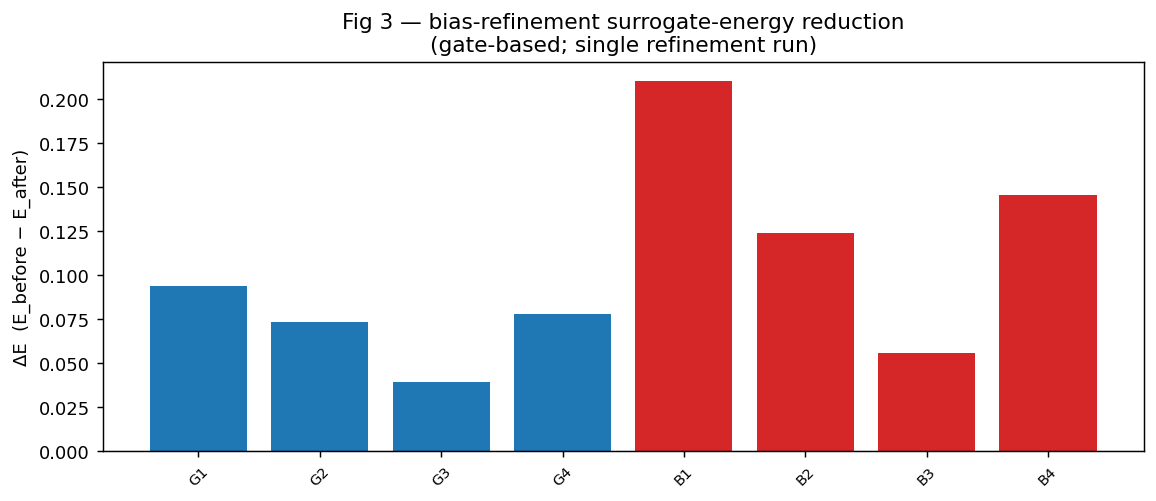
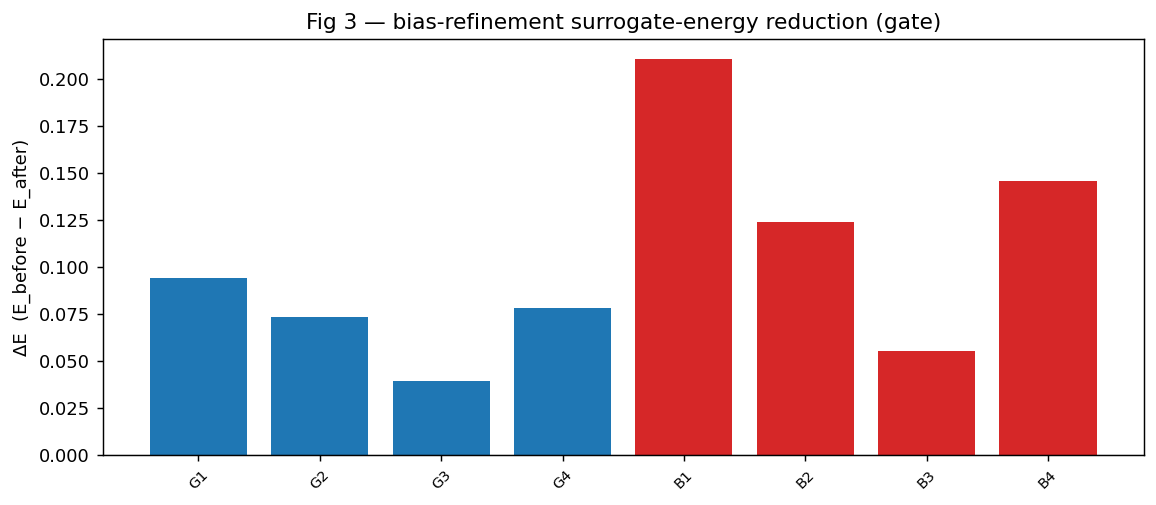
Better phptpnic results

diff --git a/papers/EGAS/utils/plot_results.py b/papers/EGAS/utils/plot_results.py
@@ -4,9 +4,9 @@ Usage:
     python utils/plot_results.py --wasserstein outdir/run_*/metrics.json
     python utils/plot_results.py --fig1 outdir/run_*/metrics.json
     python utils/plot_results.py --egas outdir/run_WC/metrics.json outdir/run_WQ/metrics.json
-    python utils/plot_results.py --fig4-gate paths... --fig4-photonic paths...
 
-Reads structured metrics.json and writes PNGs to both the run dir and ``results/``.
+Reads structured metrics.json (never hardcodes run dirs) and writes PNGs to both the run dir
+and ``results/``.
 """
 
 from __future__ import annotations
@@ -20,8 +20,6 @@ import matplotlib
 matplotlib.use("Agg")
 import matplotlib.pyplot as plt
 import numpy as np
-
-# ======================================================================= Constants
 
 RESULTS = Path(__file__).resolve().parents[1] / "results"
 RESULTS.mkdir(exist_ok=True)
@@ -37,57 +35,44 @@ PAPER_W1 = {
 }
 
 
-# ======================================================================= Helpers
-
-
 def _load(p):
-    """Load metrics.json file."""
     return json.loads(Path(p).read_text())
 
 
-# ======================================================================= Diagnostic Plots
-
-
 def plot_wasserstein(path):
-    """Plot Wasserstein distances (Table I) - diagnostic."""
     m = _load(path)["results"]
     names = [n for n in m if "w1" in m[n]]
     repro = [m[n]["w1"] for n in names]
     paper = [PAPER_W1.get(n, np.nan) for n in names]
     x = np.arange(len(names))
-    fig, ax = plt.subplots(figsize=(8, 4))
-    ax.bar(x - 0.2, repro, 0.4, label="reproduced")
-    ax.bar(x + 0.2, paper, 0.4, label="paper (Table I)")
-    ax.set_xticks(x)
-    ax.set_xticklabels(names)
-    ax.set_ylabel("1-Wasserstein distance")
-    ax.set_title("Table I — input-space class-conditional W1")
-    ax.legend()
+    plt.figure(figsize=(8, 4))
+    plt.bar(x - 0.2, repro, 0.4, label="reproduced")
+    plt.bar(x + 0.2, paper, 0.4, label="paper (Table I)")
+    plt.xticks(x, names)
+    plt.ylabel("1-Wasserstein distance")
+    plt.legend()
+    plt.title("Table I: input-space class-conditional W1")
     plt.tight_layout()
-    for d in (RESULTS,):
+    for d in (Path(path).parent, RESULTS):
         plt.savefig(d / "table1_wasserstein.png", dpi=130, bbox_inches="tight")
     plt.close()
     print("wrote table1_wasserstein.png")
 
 
 def plot_fig1(path):
-    """Plot trace distance vs W1 (Fig 1) - diagnostic."""
     res = _load(path)["results"]
-    fig, ax = plt.subplots(figsize=(6, 4))
+    plt.figure(figsize=(6, 4))
     for key, d in res.items():
-        ax.plot(d["w1"], d["trace_dist"], "o-", label=f"ZZ {key}")
-    ax.set_xlabel("input W1 distance")
-    ax.set_ylabel("trace distance")
-    ax.set_title("Fig 1 — trace distance vs input W1 (saturating)")
-    ax.legend()
+        plt.plot(d["w1"], d["trace_dist"], "o-", label=f"ZZ {key}")
+    plt.xlabel("input W1 distance")
+    plt.ylabel("trace distance")
+    plt.title("Fig 1: trace distance vs input W1 (saturating)")
+    plt.legend()
     plt.tight_layout()
-    for d in (RESULTS,):
+    for d in (Path(path).parent, RESULTS):
         plt.savefig(d / "fig1_tracedist_vs_w1.png", dpi=130, bbox_inches="tight")
     plt.close()
     print("wrote fig1_tracedist_vs_w1.png")
-
-
-# ======================================================================= Fig 3: Bias-Refinement Energy Reduction
 
 
 def plot_fig3_deltaE_per_candidate(path):
@@ -100,63 +85,45 @@ def plot_fig3_deltaE_per_candidate(path):
     b = m["delta_E"]["B"]
     labels = [f"G{i + 1}" for i in range(len(g))] + [f"B{i + 1}" for i in range(len(b))]
     means = g + b
-
     fig, ax = plt.subplots(figsize=(9, 4))
-    ax.bar(
-        range(len(means)),
-        means,
-        color=["#1f77b4"] * len(g) + ["#d62728"] * len(b),
-    )
+    ax.bar(range(len(means)), means, color=["#1f77b4"] * len(g) + ["#d62728"] * len(b))
     ax.axhline(0, color="k", lw=0.6)
     ax.set_xticks(range(len(labels)))
     ax.set_xticklabels(labels, rotation=45, fontsize=8)
     ax.set_ylabel("ΔE  (E_before − E_after)")
-    ax.set_title(
-        "Fig 3 — bias-refinement surrogate-energy reduction\n(gate-based; single refinement run)"
-    )
+    ax.set_title("Fig 3 — bias-refinement surrogate-energy reduction (gate)")
     plt.tight_layout()
-    plt.savefig(RESULTS / "fig3_deltaE_per_candidate.png", dpi=130, bbox_inches="tight")
+    for d in (RESULTS,):
+        plt.savefig(d / "fig3_deltaE_per_candidate.png", dpi=130, bbox_inches="tight")
     plt.close()
     print("wrote fig3_deltaE_per_candidate.png")
 
 
 def plot_fig3_deltaE_per_candidate_photonic(path):
-    """Fig 3 (Photonic): Bias-refinement surrogate-energy reduction per candidate.
-
-    Shows ΔE per candidate for G and B groups (PW dataset only).
-    """
+    """Fig 3 (Photonic): Bias-refinement surrogate-energy reduction per candidate."""
     m = _load(path)
     g = m["delta_E"]["G"]
     b = m["delta_E"]["B"]
     labels = [f"G{i + 1}" for i in range(len(g))] + [f"B{i + 1}" for i in range(len(b))]
     means = g + b
-
     fig, ax = plt.subplots(figsize=(9, 4))
-    ax.bar(
-        range(len(means)),
-        means,
-        color=["#1f77b4"] * len(g) + ["#d62728"] * len(b),
-    )
+    ax.bar(range(len(means)), means, color=["orange"] * len(g) + ["red"] * len(b))
     ax.axhline(0, color="k", lw=0.6)
     ax.set_xticks(range(len(labels)))
     ax.set_xticklabels(labels, rotation=45, fontsize=8)
     ax.set_ylabel("ΔE  (E_before − E_after)")
-    ax.set_title(
-        "Fig 3 (Photonic) — bias-refinement surrogate-energy reduction\n(photonic; single refinement run)"
-    )
+    ax.set_title("Fig 3 — bias-refinement surrogate-energy reduction (photonic)")
     plt.tight_layout()
-    plt.savefig(
-        RESULTS / "fig3_deltaE_per_candidate_photonic.png", dpi=130, bbox_inches="tight"
-    )
+    for d in (RESULTS,):
+        plt.savefig(
+            d / "fig3_deltaE_per_candidate_photonic.png", dpi=130, bbox_inches="tight"
+        )
     plt.close()
     print("wrote fig3_deltaE_per_candidate_photonic.png")
 
 
-# ======================================================================= Fig 4: Group-wise Energy Reduction
-
-
 def plot_fig4_deltaE_groups(paths):
-    """Fig 4 (Gate): Group-wise mean surrogate-energy reduction across datasets.
+    """Fig 4: Group-wise mean surrogate-energy reduction across datasets.
 
     Plots mean ΔE for G and B groups with error bars.
     """
@@ -183,16 +150,14 @@ def plot_fig4_deltaE_groups(paths):
     ax.set_title("Fig 4 — group-wise mean surrogate-energy reduction across datasets")
     ax.legend()
     plt.tight_layout()
-    plt.savefig(RESULTS / "fig4_deltaE_groups.png", dpi=130, bbox_inches="tight")
+    for d in (RESULTS,):
+        plt.savefig(d / "fig4_deltaE_groups.png", dpi=130, bbox_inches="tight")
     plt.close()
     print("wrote fig4_deltaE_groups.png")
 
 
 def plot_fig4_deltaE_groups_photonic(paths):
-    """Fig 4 (Photonic): Group-wise mean surrogate-energy reduction across datasets.
-
-    Plots mean ΔE for G and B groups with error bars.
-    """
+    """Fig 4 (photonic): Group-wise mean surrogate-energy reduction across datasets."""
     data = [_load(p) for p in paths]
     names = [d["dataset"] for d in data]
 
@@ -204,11 +169,9 @@ def plot_fig4_deltaE_groups_photonic(paths):
     x = np.arange(len(names))
     fig, ax = plt.subplots(figsize=(7, 4))
     ax.errorbar(
-        x - 0.05, gm, yerr=gs, fmt="o", capsize=4, label="G group", color="#1f77b4"
+        x - 0.05, gm, yerr=gs, fmt="o", capsize=4, label="G group", color="orange"
     )
-    ax.errorbar(
-        x + 0.05, bm, yerr=bs, fmt="s", capsize=4, label="B group", color="#d62728"
-    )
+    ax.errorbar(x + 0.05, bm, yerr=bs, fmt="s", capsize=4, label="B group", color="red")
     ax.axhline(0, ls="--", color="gray", lw=0.8)
     ax.set_xticks(x)
     ax.set_xticklabels(names)
@@ -218,31 +181,22 @@ def plot_fig4_deltaE_groups_photonic(paths):
     )
     ax.legend()
     plt.tight_layout()
-    plt.savefig(
-        RESULTS / "fig4_deltaE_groups_photonic.png", dpi=130, bbox_inches="tight"
-    )
+    for d in (RESULTS,):
+        plt.savefig(d / "fig4_deltaE_groups_photonic.png", dpi=130, bbox_inches="tight")
     plt.close()
     print("wrote fig4_deltaE_groups_photonic.png")
 
 
-# ======================================================================= Fig 5: Win/Tie/Loss Comparison
-
-
 def plot_fig5_win_tie_loss(paths):
-    """Fig 5 (Gate): Win/Tie/Loss vs classical linear SVM per dataset.
-
-    Compares quantum kernels against classical baseline across splits.
-    """
+    """Fig 5: Win/Tie/Loss comparison vs classical linear across datasets."""
     data = [_load(p) for p in paths]
     names = [d["dataset"] for d in data]
     n = len(names)
-
     fig, axes = plt.subplots(1, n, figsize=(4 * n, 3.6), sharey=True)
     if n == 1:
         axes = [axes]
 
-    for ax, name in zip(axes, names):
-        m = data[names.index(name)]
+    for ax, name, m in zip(axes, names, data):
         models = [
             ("G*", m["G"][m["G_star_idx"]]["wtl_vs_linear"]),
             ("G*(Bias)", m["G_bias"][m["G_bias_star_idx"]]["wtl_vs_linear"]),
@@ -269,30 +223,26 @@ def plot_fig5_win_tie_loss(paths):
         ax.set_xticklabels(labels, rotation=45, fontsize=8)
         ax.set_title(f"{name} (W1={m['w1']:.2f})")
 
-    axes[0].set_ylabel("# splits (of {})".format(data[0]["n_splits"]))
+    axes[0].set_ylabel(f"# splits (of {data[0]['n_splits']})")
     axes[-1].legend(loc="upper right", fontsize=8)
     fig.suptitle("Fig 5 — Win/Tie/Loss vs classical linear SVM")
     plt.tight_layout()
-    plt.savefig(RESULTS / "fig5_win_tie_loss.png", dpi=130, bbox_inches="tight")
+    for d in (RESULTS,):
+        plt.savefig(d / "fig5_win_tie_loss.png", dpi=130, bbox_inches="tight")
     plt.close()
     print("wrote fig5_win_tie_loss.png")
 
 
 def plot_fig5_win_tie_loss_photonic(paths):
-    """Fig 5 (Photonic): Win/Tie/Loss vs classical linear SVM per dataset.
-
-    Compares photonic quantum kernels against classical baseline across splits.
-    """
+    """Fig 5 (photonic): Win/Tie/Loss comparison vs classical linear across datasets."""
     data = [_load(p) for p in paths]
     names = [d["dataset"] for d in data]
     n = len(names)
-
     fig, axes = plt.subplots(1, n, figsize=(4 * n, 3.6), sharey=True)
     if n == 1:
         axes = [axes]
 
-    for ax, name in zip(axes, names):
-        m = data[names.index(name)]
+    for ax, name, m in zip(axes, names, data):
         models = [
             ("G*", m["G"][m["G_star_idx"]]["wtl_vs_linear"]),
             ("G*(Bias)", m["G_bias"][m["G_bias_star_idx"]]["wtl_vs_linear"]),
@@ -306,42 +256,35 @@ def plot_fig5_win_tie_loss_photonic(paths):
         ties = [w["tie"] for _, w in models]
         loss = [w["lose"] for _, w in models]
         x = np.arange(len(labels))
-        ax.bar(x, wins, color="#2c7fb8", label="win")
-        ax.bar(x, ties, bottom=wins, color="#f4d03f", label="tie")
+        ax.bar(x, wins, color="orange", label="win", alpha=0.8)
+        ax.bar(x, ties, bottom=wins, color="gold", label="tie", alpha=0.8)
         ax.bar(
             x,
             loss,
             bottom=np.array(wins) + np.array(ties),
-            color="#d62728",
+            color="red",
             label="lose",
+            alpha=0.8,
         )
         ax.set_xticks(x)
         ax.set_xticklabels(labels, rotation=45, fontsize=8)
         ax.set_title(f"{name} (W1={m['w1']:.2f})")
 
-    axes[0].set_ylabel("# splits (of {})".format(data[0]["n_splits"]))
+    axes[0].set_ylabel(f"# splits (of {data[0]['n_splits']})")
     axes[-1].legend(loc="upper right", fontsize=8)
     fig.suptitle("Fig 5 (Photonic) — Win/Tie/Loss vs classical linear SVM")
     plt.tight_layout()
-    plt.savefig(
-        RESULTS / "fig5_win_tie_loss_photonic.png", dpi=130, bbox_inches="tight"
-    )
+    for d in (RESULTS,):
+        plt.savefig(d / "fig5_win_tie_loss_photonic.png", dpi=130, bbox_inches="tight")
     plt.close()
     print("wrote fig5_win_tie_loss_photonic.png")
 
 
-# ======================================================================= Fig 6: Embedding-Sensitivity IQR
-
-
 def plot_fig6_iqr(paths):
-    """Fig 6 (Gate): Embedding-sensitivity IQR per dataset.
-
-    Shows inter-quartile range of accuracy across embeddings.
-    """
+    """Fig 6 (gate): Embedding-sensitivity IQR per dataset."""
     data = [_load(p) for p in paths]
     names = [d["dataset"] for d in data]
-
-    iqr = [d["embedding_sensitivity_IQR"] for d in data]
+    iqr = [d.get("embedding_sensitivity_IQR", 0) for d in data]
     w1 = [d["w1"] for d in data]
 
     fig, ax = plt.subplots(figsize=(7, 4))
@@ -357,7 +300,7 @@ def plot_fig6_iqr(paths):
     ax.set_xticks(np.arange(len(names)))
     ax.set_xticklabels(names)
     ax.set_ylabel("IQR of mean test accuracy")
-    ax.set_title("Fig 6 — embedding-sensitivity IQR per dataset (grows with W1)")
+    ax.set_title("Fig 6 (Gate) — embedding-sensitivity IQR per dataset (grows with W1)")
     plt.tight_layout()
     plt.savefig(RESULTS / "fig6_iqr.png", dpi=130, bbox_inches="tight")
     plt.close()
@@ -365,18 +308,14 @@ def plot_fig6_iqr(paths):
 
 
 def plot_fig6_iqr_photonic(paths):
-    """Fig 6 (Photonic): Embedding-sensitivity IQR per dataset.
-
-    Shows inter-quartile range of accuracy across embeddings (photonic).
-    """
+    """Fig 6 (photonic): Embedding-sensitivity IQR per dataset."""
     data = [_load(p) for p in paths]
     names = [d["dataset"] for d in data]
-
-    iqr = [d["embedding_sensitivity_IQR"] for d in data]
+    iqr = [d.get("embedding_sensitivity_IQR", 0) for d in data]
     w1 = [d["w1"] for d in data]
 
     fig, ax = plt.subplots(figsize=(7, 4))
-    bars = ax.bar(np.arange(len(names)), iqr, color="#7fbf7b")
+    bars = ax.bar(np.arange(len(names)), iqr, color="darkorange")
     for b, w in zip(bars, w1):
         ax.text(
             b.get_x() + b.get_width() / 2,
@@ -396,8 +335,6 @@ def plot_fig6_iqr_photonic(paths):
     plt.close()
     print("wrote fig6_iqr_photonic.png")
 
-
-# ======================================================================= Main
 
 if __name__ == "__main__":
     ap = argparse.ArgumentParser(
